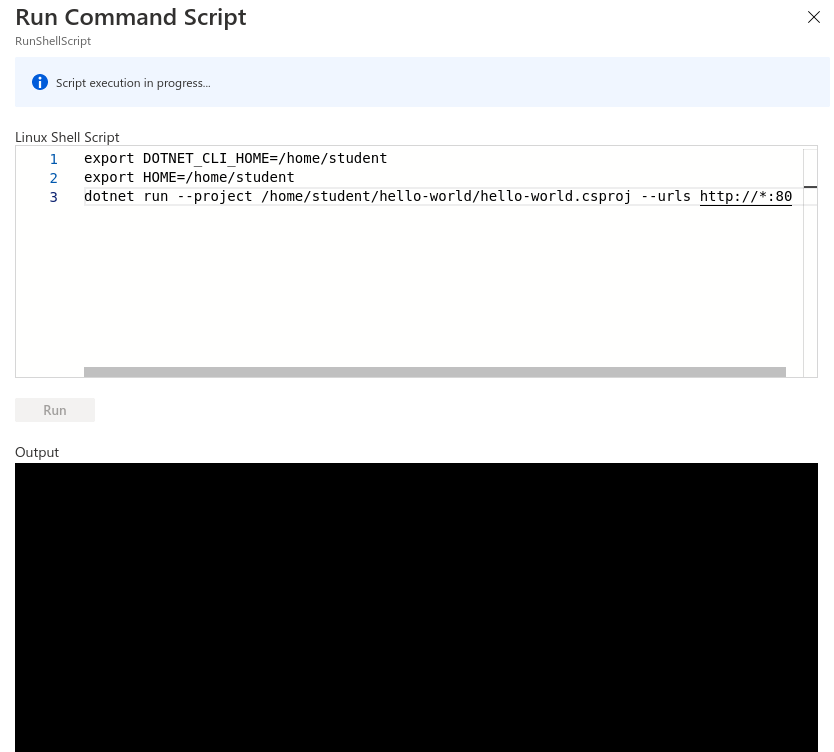
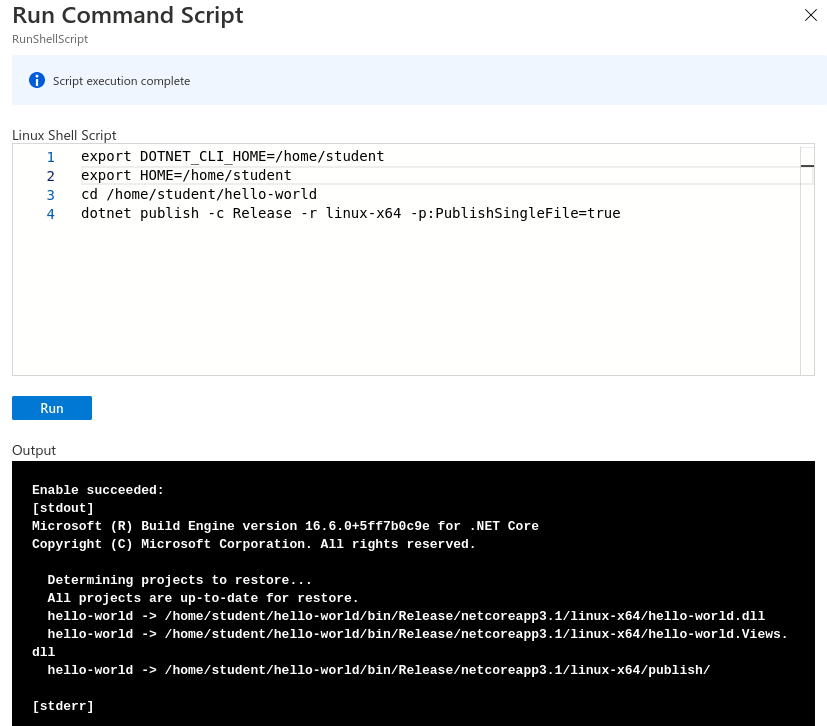
added deploy section to walkthrough, update other sections and pictures

diff --git a/src/chapters/web-apis/walkthrough.rst b/src/chapters/web-apis/walkthrough.rst
@@ -11,8 +11,9 @@ We have a few steps we will need to accomplish to deploy and access our applicat
     - Spin up a VM with an Ubuntu OS
     - Configure our VM to run our application
     - Create our source code
-    - Create the build artifacts that will be deployed
-    - Deploy project
+    - Create the build artifacts (Publish)
+    - Deploy the build artifacts
+    - Open the VM Security Group
     - Connect to deployed project
 
 Login to Azure Portal
@@ -161,10 +162,36 @@ Let's run one final command to make sure the ``dotnet new mvc -n hello-world`` c
 
 As we can see from the output our ``pwd`` command tells us we are in /home/student/hello-world so the dotnet command created a new folder. From the ``ls`` command we can see the hello-world folder has quite a few folders and files in it including ``hello-world.csproj``. This is a runnable project.
 
+Publish Project
+===============
+
+Our source code exists and we need to create build artificats from our source code to deploy our project. Earlier we learned about the ``dotnet publish`` command that creates the build artifacts. Let's do that now.
+
+.. sourcecode:: bash
+
+   export DOTNET_CLI_HOME=/home/student
+   export HOME=/home/student
+   cd /home/student/hello-world
+   dotnet publish -c Release -r linux-x64 -p:PublishSingleFile=true
+
+.. image:: /_static/images/web-apis/walkthrough-run-command-6.png
+
+This will publish to ``/home/student/hello-world/bin/Release/netcoreapp3.1/linux-x64/publish/``.
+
+We can look into this folder with ``ls``.
+
+.. sourcecode:: bash
+
+   ls /home/student/hello-world/bin/Release/netcoreapp3.1/linux-x64/publish/
+
+.. image:: /_static/images/web-apis/walkthrough-run-command-7.png
+
+The publish directory has our build artifacts and we have something to deploy!
+
 Open Network Security Groups
 ============================
 
-Before we run our app we will need to create a new inbound and outbound network security group rule to let the traffic in and let our app respond to the traffic. Our app will be running on port 80 so we will need to open that port.
+Before we deploy our build artifacts we will need to create a new inbound and outbound network security group rule to let the traffic in and let our app respond to the traffic. Our app will be running on port 80 so we will need to open that port.
 
 From the Azure Portal look for the Networking tab of the Setting sections.
 
@@ -192,20 +219,19 @@ Double check both the inbound port rule, and the outbound port rule. If these ar
    
    Misconfiguring a Network Security Group is a common error when deploying applications and should be one of the first things you check if you cannot access your running application.
 
-Run Project
-===========
+Deploy Project
+==============
 
-We will run our project using the run command with the following code:
+We will deploy our project using the executable artifact created by our publish step. However, we want this project to run on port 80, not the default port of 5000 so we are going to set an Environment variable when we run our executable.
 
 .. sourcecode:: bash
 
-   export DOTNET_CLI_HOME=/home/student
-   export HOME=/home/student
-   dotnet run --project /home/student/hello-world/hello-world.csproj --urls http://*:80
+   cd /home/student/hello-world
+   ASPNETCORE_URLS="http://*:80" ./bin/Release/netcoreapp3.1/linux-x64/publish/hello-world
 
-This command is a little different. Traditionally when you run a project with ``dotnet run`` the terminal attaches itself to the process as the project runs. Since it does this you won't see anything in the output section, and it will appear to be frozen like in the following picture.
+This command is a little different. Traditionally when you run an executable .NET project the terminal attaches itself to the process as the project runs. Since it does this you won't see anything in the output section, and it will appear to be frozen like in the following picture. The reason it appears to be frozen is because the Azure Portal Run Command can only display information once it gets a response from the terminal on the VM that ran our command. Since that terminal is attached to the process associated with our project, and our project runs until it crashes, it will not send a response back to the Azure Portal Run Command window.
 
-.. image:: /_static/images/web-apis/walkthrough-run-command-6.png
+.. image:: /_static/images/web-apis/walkthrough-run-command-8.png
 
 However, the command is still running, and your application is running on port 80.
 
